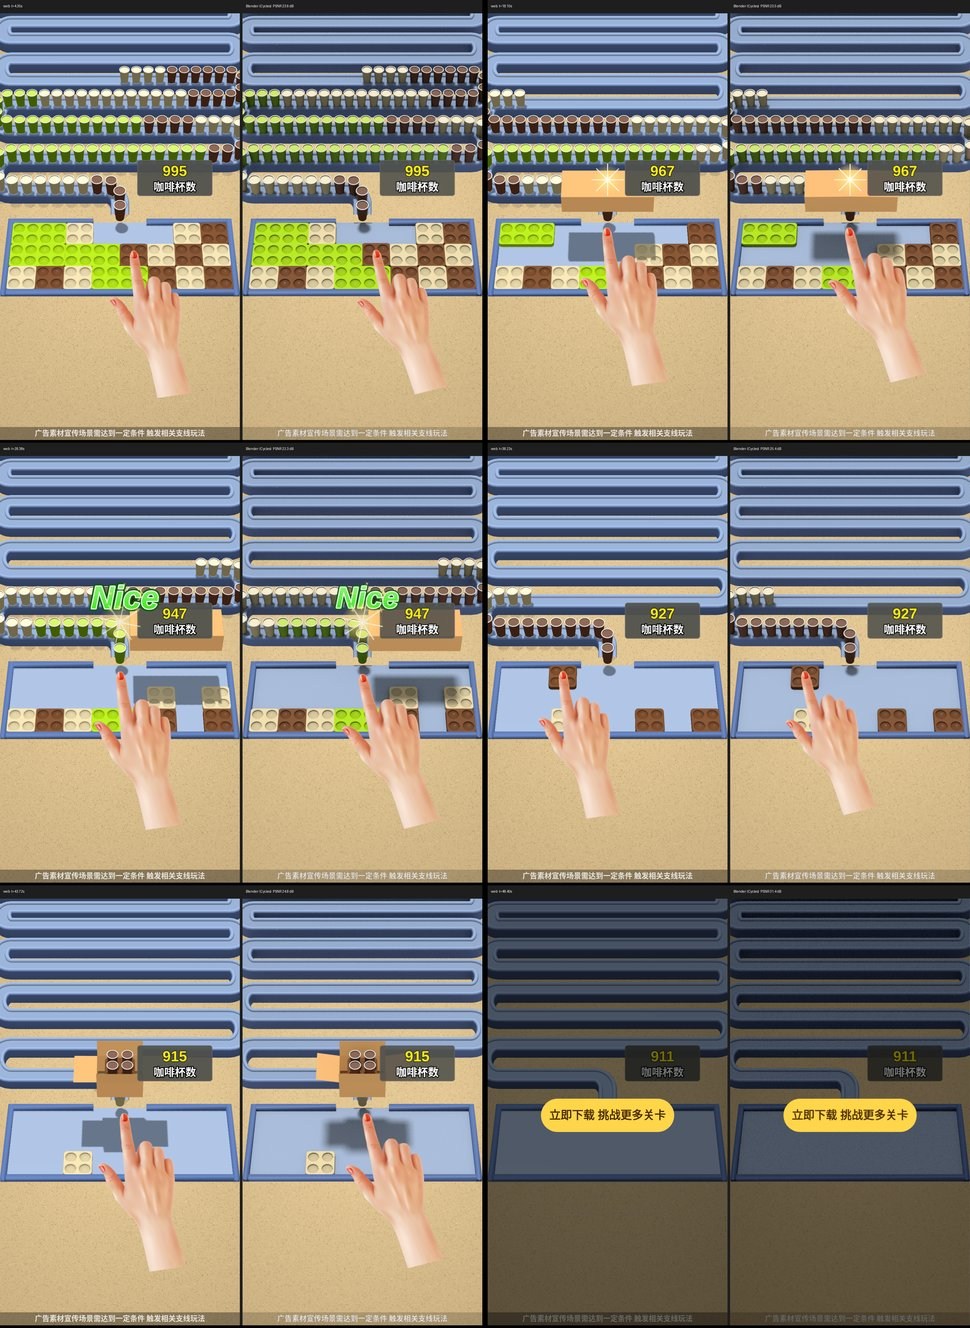
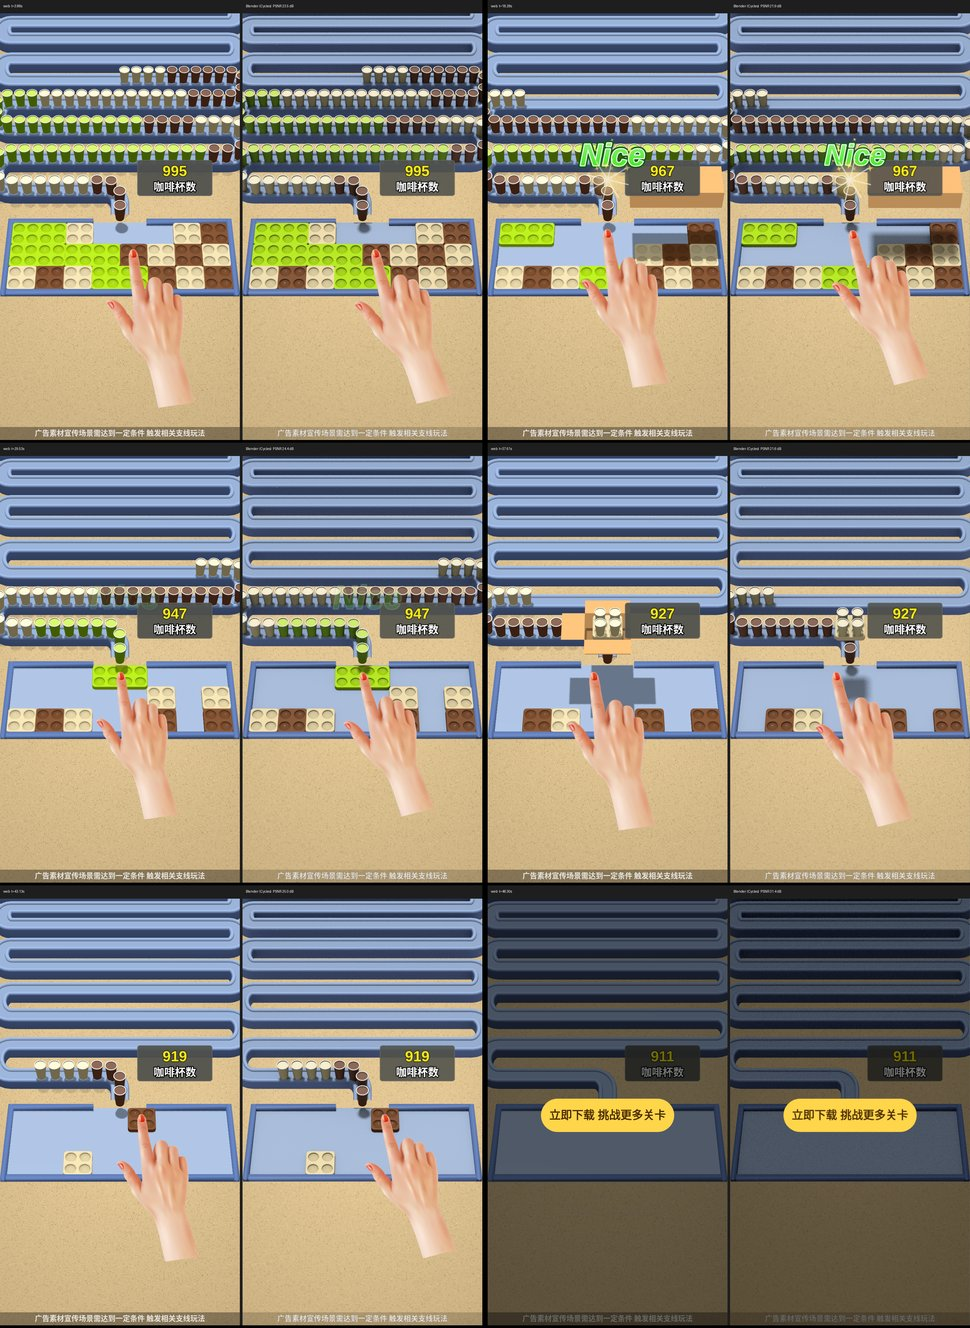
v1.2 WIP: (4) done, all tests pass, README/PROGRESS

diff --git a/README.md b/README.md
@@ -10,12 +10,14 @@
 - 点击托盘：若有通往出口的空格路径（刚体移动）且颜色与传送带最前面的杯子一致 → 滑到出口 → 杯子逐个落入 → 纸箱合盖飞向计数器 → “Nice”。被挡 / 颜色不符：抖动 + 红光 + 错误音。
 - `▶ 自动通关`：求解器（DFS，必要时插入暂存步骤 solvePlan）规划，内置“手 + 白色触控笔”按住托盘沿路径拖动，笔尖与托盘严格同步（可上传透明 PNG 替换）。
 - **v1.1 3D 渲染**：页面用 three.js（打包进 index.html，离线）实时渲染硅胶托盘（半球凹槽）、纸杯、蓝色传送带、棋盘、可翻折的纸箱，带阴影；相机 FOV / 俯角 / 距离、灯光、材质都在“3D 渲染”设置组。纸箱四片翻盖连续翻折 + Nice 金色星星粒子。
+- **v1.2**：3D 相机 / 颜色按参考逐帧拟合（`screenshots/ref_vs_tool.jpg`）；纸箱折叠按参考逐帧重做时序（托盘+杯子升起 → 纸箱长出 → 前后盖先合、左右盖后合 → 向右飞出，`screenshots/box_fold_ref_vs_tool.jpg`）。
 - 关卡：参考关卡 / 随机生成（保证可解）/ 导入任意透明 PNG/WebP（alpha 量化到网格，自动开出口并校验可解）。
 
 ## 导出
 - 视频录制：只由 `⏺ 开始录制` 或 `autoRec`（默认关）触发。
 - AE：`● 开始记录` 或录制视频时同步（aeWithRec），ZIP = `build_ae_project.jsx + timeline.json + assets/ + audio/`，每个元素一个带关键帧的独立图层。
-- 3D：`导出 3D 动画 (glTF/FBX/Blender)`，ZIP = `scene.glb + scene3d.json + blender_import.py + timeline.json + audio/`（FBX 用 Blender 无头转换）。
+- **v1.2 AE 3D 外观**：设置「AE 图层外观」auto（默认，页面开启 3D 渲染时）/ 3d / 2d：图层素材由页面同一 three.js 场景离屏渲染（传送带 / 棋盘整帧、托盘 / 杯子 3D 精灵、纸箱长出 + 翻盖逐帧序列预合成），图层命名不变；详见 `src/ae/README_AE.md`。
+- 3D：`导出 3D 动画 (glTF/FBX/Blender)`（v1.2 复用页面 three.js 模型 + 透视相机 + 太阳光），ZIP = `scene.glb + scene3d.json + blender_import.py + timeline.json + audio/`（FBX 用 Blender 无头转换）。
 
 ## 开发
 ```
@@ -23,6 +25,7 @@ npm run build        # → index.html
 npm run test:logic   # 逻辑 / 生成器 / 掩码
 npm test             # 参考关卡自动通关 + 截图 + 视频录制
 npm run test:ae      # AE 导出 + jsx 模拟 + 合成 PSNR
+npm run test:ae3d    # AE 3D 外观导出 + jsx 模拟 + 与网页 3D 帧 PSNR
 npm run test:3d      # Blender 导入 + FBX + 渲染对比
 npm run test:shape   # 透明图片生成关卡
 npm run test:norec   # 录制触发规则

diff --git a/ref/PROGRESS.md b/ref/PROGRESS.md
@@ -29,4 +29,8 @@
 - (1) ✅ 6a50ada：相机按参考棋盘格拟合（tools/fit_camera.mjs：FOV 30 / 俯角 51，格子世界尺寸离散度 0.0006）；传送带改为沿路径扫掠截面（外壁+圆角挡边+带面），带面/托盘顶面/外框顶面/杯底都按自身高度反投影到 2D 位置；3D 颜色按分区中位数校准（test/ref-compare.mjs + tools/ref_diff.py → screenshots/ref_vs_tool.jpg、ref_diff_report.json）；设置 v6 migrate
 - (2) ✅ 61a62b7：纸箱逐帧对比（test/box-fold.mjs → screenshots/box_fold_ref_vs_tool.jpg）：托盘+杯子先升起悬空（150px，ease-out），纸箱在其下长出、翻盖摊平+放大，前后盖先合、左右盖后合（中缝竖直），向右飞出（经计数器后方）；Nice 位置/大小/白光按参考；__game.renderAt 虚拟时钟
 - (3) ✅ 3D 导出（export3d/2）复用页面 scene3d 模型（托盘+半球碗、杯子、可翻折纸箱、扫掠传送带+挡边、棋盘），逐帧烘焙每个节点 TRS；透视相机 + 太阳光；2D 叠加层挂相机下。Blender Cycles 对比网页帧 PSNR 22.3–31.4 dB（test:3d PASS）
-- (4) 进行中：AE 3D 外观（src/ae/look3d.js，设置 aeLook auto/3d/2d），新增 test:ae3d
+- (4) ✅ AE 3D 外观（src/ae/look3d.js，设置 aeLook auto/3d/2d；auto = 记录时页面开启 3D 渲染）：同一 three.js 场景离屏渲染——传送带 / 棋盘整帧 3D 图、每块托盘一张 3D 精灵（初始格位置透视）、杯子 每色×4 纵向分带 3D 精灵（跨带自动拆段）、纸箱长出+翻盖逐帧序列 → 预合成「纸箱3D序列_<色>_<宽>_n<帧>」（同色同宽复用）+ 飞走静帧；2D 覆盖层（计数器 / Nice / 星星 / 手指 / 结束页）不变；图层命名沿用规范（托盘_NN / 咖啡杯_N / 纸箱_N 3D序列）。zip ≈ 11 MB（2D ≈ 8 MB）。test:ae3d PASS：jsx 模拟 0 错误，与网页 3D 帧 PSNR 平均 28–29 dB / 最低 19.5–20 dB（screenshots/ae_export_check_3d.jpg）
+- (5) ✅ 全部测试（逐个运行，2026-10-19 00:00–00:12）：test:logic ALL PASS / npm test（67 托盘 280 杯通关 + 录制）/ test:ae（PSNR 平均 36.5，最低 24.7）/ test:ae3d / test:3d BLENDER PASS（PSNR 21.6–31.4）/ test:shape / test:norec PASS / test:drag ALL PASS
+## v1.2 剩余差距
+- AE 3D 外观：托盘 / 杯子移动到别处仍用初始位置 / 分带渲染的精灵（透视角度不随位置变化）；元素间遮挡、投影按图层顺序近似；纸箱序列为逐帧 PNG（非 AE 原生 3D 图层），与网页 3D 帧最低 PSNR≈20 dB（差异主要在杯子 / 托盘边缘亚像素与阴影）
+- 盒子无 GPU（SwiftShader），3D 页面测试帧率低；长流程测试仍以 2D 为主
